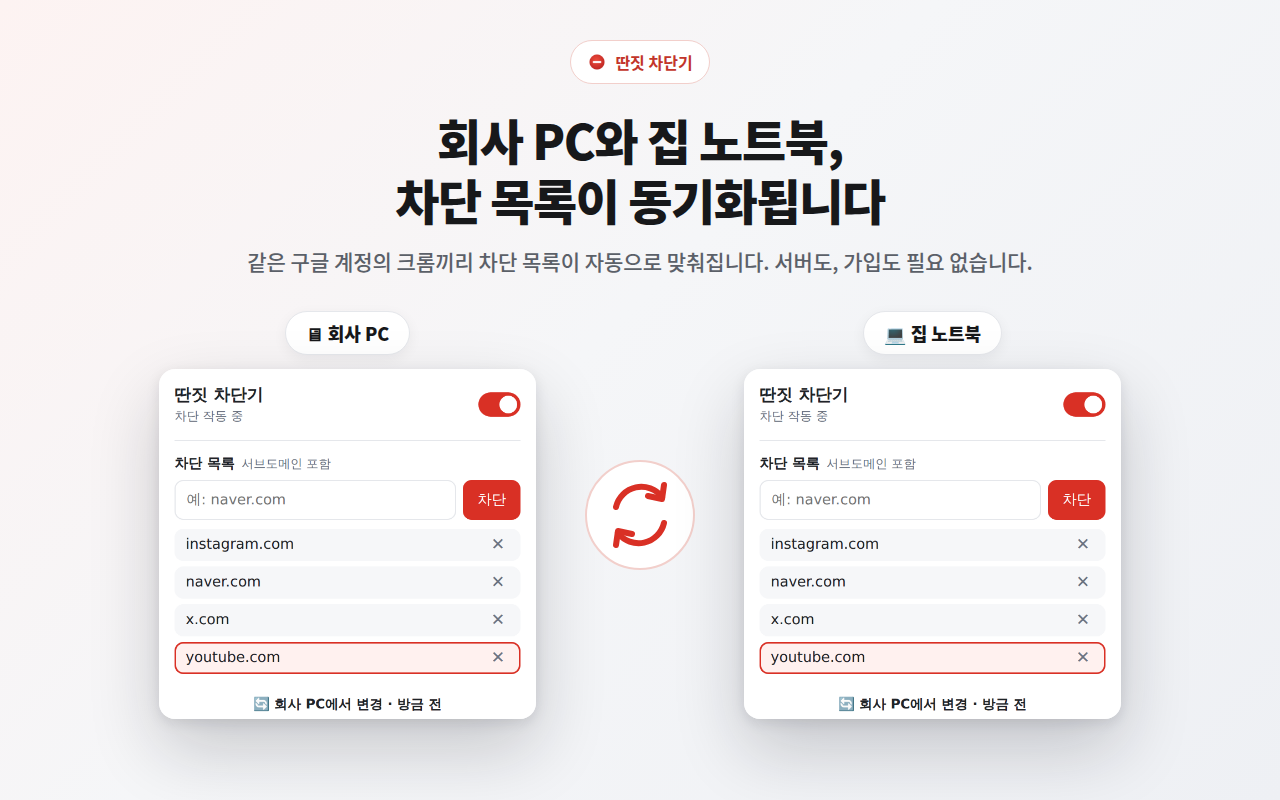
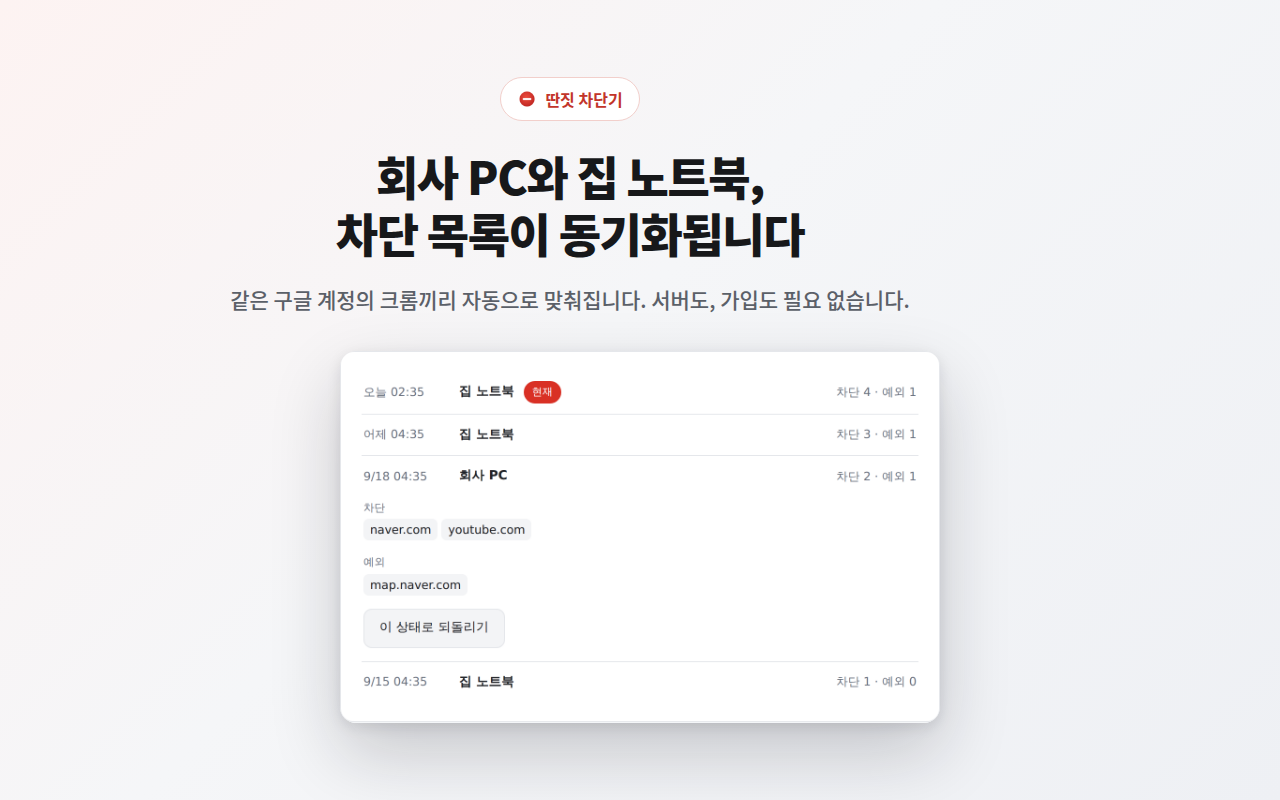
v2.0.3 - 동기화 기록·되돌리기, 단어 문제 잠금, 스토어 이미지

diff --git a/docs/index.html b/docs/index.html
@@ -67,6 +67,13 @@
 
   footer{margin-top:52px;padding-top:22px;border-top:1px solid var(--line);
          color:var(--muted);font-size:13.5px}
+  ul.no{list-style:none;padding-left:0}
+  ul.no li{position:relative;padding-left:30px}
+  ul.no li::before{content:"✕";position:absolute;left:4px;top:0;color:var(--muted);font-weight:700}
+  .tag{display:inline-block;font-size:12px;font-weight:700;vertical-align:3px;margin-left:8px;
+       padding:2px 9px;border-radius:999px;color:var(--ok);background:var(--okbg);
+       border:1px solid color-mix(in srgb, var(--ok) 35%, transparent)}
+  h3{font-size:16px;margin:26px 0 8px;font-weight:800}
   [hidden]{display:none!important}
 </style>
 </head>
@@ -79,7 +86,7 @@
   </header>
 
   <h1 id="title">개인정보처리방침</h1>
-  <div class="meta" id="meta">최종 수정일 · 시행일: 2026년 9월 11일</div>
+  <div class="meta" id="meta">최종 수정일 · 시행일: 2026년 9월 21일</div>
 
   <div class="lang" role="tablist">
     <button id="btnKo" role="tab" aria-selected="true">한국어</button>
@@ -88,51 +95,59 @@
 
   <!-- ===================== 한국어 ===================== -->
   <section id="ko">
-
     <div class="tldr">
       <strong>한눈에 보기</strong>
-      <p>딴짓 차단기는 <b>어떤 개인정보도 수집하지 않습니다.</b> 외부 서버로 데이터를
-      전송하지 않으며, 사용자가 설정한 내용은 모두 사용자의 브라우저 안에만 저장됩니다.</p>
+      <p>딴짓 차단기는 <b>어떤 개인정보도 수집하지 않습니다.</b> 개발자가 운영하는 서버가 없고,
+      개발자에게 전송되는 데이터도 없습니다. 사용자가 정한 설정은 사용자의 브라우저 안에,
+      크롬 동기화를 켰다면 <b>사용자 본인의 구글 계정</b> 안에만 보관됩니다.</p>
     </div>
 
     <h2>1. 수집하지 않는 정보</h2>
-    <p>이 확장 프로그램은 다음을 포함한 어떤 정보도 수집·저장·전송하지 않습니다.</p>
-    <ul>
-      <li>이름, 이메일, 계정 정보 등 개인 식별 정보</li>
-      <li>방문 기록, 검색 기록, 열람한 페이지의 내용</li>
-      <li>IP 주소, 기기 식별자, 위치 정보</li>
-      <li>사용 통계, 분석 데이터, 오류 보고</li>
-      <li>쿠키, 로그인 정보, 입력한 양식의 내용</li>
+    <p>이 확장 프로그램은 아래 정보를 <b>하나도 수집·저장·전송하지 않습니다.</b></p>
+    <ul class="no">
+      <li><b>이름, 이메일, 계정 정보</b> 등 개인 식별 정보를 <b>수집하지 않습니다.</b></li>
+      <li><b>방문 기록, 검색 기록, 열람한 페이지의 내용</b>을 <b>수집하지 않습니다.</b></li>
+      <li><b>IP 주소, 위치 정보, 하드웨어 기기 식별자</b>(광고 ID·MAC 주소 등)를 <b>수집하지 않습니다.</b></li>
+      <li><b>사용 통계, 분석 데이터, 오류 보고</b>를 <b>수집하지 않습니다.</b></li>
+      <li><b>쿠키, 로그인 정보, 비밀번호, 입력한 양식의 내용</b>을 <b>수집하지 않습니다.</b></li>
     </ul>
-    <p>분석 도구나 광고 SDK를 일절 포함하지 않으며, 외부 서버와 통신하는 코드가
-    존재하지 않습니다.</p>
+    <p>분석 도구나 광고 SDK를 일절 포함하지 않으며, 외부 서버와 통신하는 코드가 존재하지 않습니다.</p>
 
-    <h2>2. 기기에 저장되는 정보</h2>
-    <p>기능 동작을 위해 아래 항목이 <b>사용자의 브라우저에</b> 저장됩니다.
-    크롬의 <code>chrome.storage.local</code> 과 <code>chrome.storage.sync</code> 영역을 사용하며,
-    이 데이터는 <b>개발자에게 전송되지 않습니다.</b></p>
+    <h2>2. 사용자의 브라우저에만 보관되는 설정 <span class="tag">수집 아님</span></h2>
+    <p>아래 항목은 <b>개발자가 수집하는 정보가 아닙니다.</b> 확장 프로그램이 동작하려고
+    사용자의 브라우저 안(크롬의 <code>chrome.storage</code>)에 보관하는 설정이며,
+    <b>개발자에게 전송되지 않습니다.</b></p>
     <div class="scroll">
     <table class="tbl">
-      <tr><th>저장 항목</th><th>내용</th></tr>
-      <tr><td>차단 목록</td><td>사용자가 직접 입력한 도메인 목록</td></tr>
-      <tr><td>예외 목록</td><td>차단 대상에서 제외할 도메인 목록</td></tr>
-      <tr><td>차단 페이지 설정</td><td>차단 시 표시할 문구와 이모지</td></tr>
-      <tr><td>잠금 문제 단어</td><td>잠금을 풀 때 나오는 단어와 뜻 (사용자가 바꿀 수 있음)</td></tr>
-      <tr><td>동기화 기록</td><td>최근 10회의 차단·예외 목록과 그 시각, 사용자가 붙인 기기 이름</td></tr>
-      <tr><td>차단 사용 여부 · 잠금 여부</td><td>기능 켜짐/꺼짐 상태 (기기마다 따로)</td></tr>
+      <tr><th>보관 항목</th><th>내용</th><th>다른 기기와 동기화</th></tr>
+      <tr><td>차단 목록 · 예외 목록</td><td>사용자가 직접 입력한 도메인</td><td>예</td></tr>
+      <tr><td>차단 화면 문구</td><td>차단 화면에 표시할 기호와 짧은 문구</td><td>예</td></tr>
+      <tr><td>잠금 문제 단어</td><td>잠금을 풀 때 나오는 단어·발음·뜻 (사용자가 바꿀 수 있음)</td><td>예</td></tr>
+      <tr><td>동기화 기록</td><td>최근 10회의 차단·예외 목록, 바뀐 시각, 바꾼 기기의 이름</td><td>예</td></tr>
+      <tr><td>기기 이름 · 기기 구분 번호</td><td>사용자가 붙인 기기 이름("회사 PC" 등)과,
+        내 기기끼리 구분하려고 확장 프로그램이 임의로 만든 짧은 번호.
+        하드웨어 정보와는 무관합니다.</td><td>기록 안에서만</td></tr>
+      <tr><td>차단 켜짐 · 잠금 켜짐</td><td>기능 켜짐/꺼짐 상태</td><td>아니요 (기기마다 따로)</td></tr>
+      <tr><td>잠금 해제 시각</td><td>문제를 맞힌 뒤 5분 동안 열어 두기 위한 시각.
+        브라우저를 닫으면 사라집니다.</td><td>아니요</td></tr>
     </table>
     </div>
     <p>이 확장 프로그램은 <b>비밀번호를 사용하지 않습니다.</b> 잠금은 단어 문제로만 이루어지며,
     계정·이메일·비밀번호를 묻거나 저장하지 않습니다.</p>
 
-    <h3 style="font-size:1rem;margin-top:1.4rem">크롬 동기화에 대하여</h3>
-    <p>사용자가 크롬 동기화를 켜 두었다면, 위 항목 중 <b>차단 목록 · 예외 목록 · 차단 페이지 설정 ·
-    잠금 문제 단어 · 동기화 기록</b>이 <code>chrome.storage.sync</code> 를 통해
-    <b>사용자 본인의 구글 계정</b>에 저장되어 같은 계정으로 로그인한 사용자 본인의 다른 크롬으로 전달됩니다.
-    이 전달은 구글이 제공하는 크롬 동기화 기능으로 이루어지며,
-    개발자는 이 데이터에 접근할 수 없고 중간에 어떤 서버도 두지 않습니다.
+    <h3>크롬 동기화에 대하여</h3>
+    <p>사용자가 크롬 동기화를 켜 두었다면, 위 표에서 "예"로 표시된 항목이
+    <code>chrome.storage.sync</code> 를 통해 <b>사용자 본인의 구글 계정</b>에 보관되어
+    같은 계정으로 로그인한 <b>사용자 본인의 다른 크롬</b>으로만 전달됩니다.
+    이 전달은 구글이 제공하는 크롬 동기화 기능이 처리하며,
+    <b>개발자는 이 데이터에 접근할 수 없고 중간에 어떤 서버도 두지 않습니다.</b>
     크롬 설정에서 동기화를 끄면 데이터는 그 기기 안에만 남습니다.
     (구글의 처리 방식은 <a href="https://policies.google.com/privacy">구글 개인정보처리방침</a>을 따릅니다.)</p>
+
+    <h3>엑셀 백업 파일에 대하여</h3>
+    <p>사용자가 직접 <b>엑셀로 내보내기</b>를 누른 경우에만, 차단·예외 목록, 차단 화면 문구,
+    잠금 문제 단어가 담긴 파일이 <b>사용자의 컴퓨터에 저장</b>됩니다.
+    이 파일은 어디로도 전송되지 않으며, 보관과 삭제는 사용자가 정합니다.</p>
 
     <h2>3. 요청하는 권한과 사용 목적</h2>
     <div class="scroll">
@@ -140,7 +155,7 @@
       <tr><th>권한</th><th>사용 목적</th></tr>
       <tr>
         <td><code>storage</code></td>
-        <td>위 2항의 설정을 기기에 저장하기 위해 사용합니다.</td>
+        <td>위 2항의 설정을 브라우저에 보관하고, 크롬 동기화를 켠 경우 사용자의 다른 크롬과 맞추기 위해 사용합니다.</td>
       </tr>
       <tr>
         <td><code>declarativeNetRequestWithHostAccess</code></td>
@@ -151,19 +166,21 @@
         <td>사이트 접근 권한<br>(선택적)</td>
         <td>사용자가 차단 목록에 <b>직접 추가한 사이트에 대해서만</b> 그때그때
         요청합니다. 설치 시점에 모든 사이트에 대한 권한을 요구하지 않으며,
-        이 권한은 해당 사이트로의 이동을 차단 페이지로 돌리는 데에만 쓰입니다.</td>
+        이 권한은 해당 사이트로의 이동을 차단 화면으로 돌리는 데에만 쓰입니다.</td>
       </tr>
     </table>
     </div>
 
     <h2>4. 제3자 제공 및 외부 전송</h2>
-    <p>수집하는 정보가 없으므로 제3자에게 제공하거나 판매하는 정보도 없습니다.
-    이 확장 프로그램은 어떤 외부 서버와도 통신하지 않습니다.</p>
+    <p>개발자가 수집하는 정보가 없으므로 제3자에게 제공하거나 판매하는 정보도 없습니다.
+    이 확장 프로그램은 어떤 외부 서버와도 통신하지 않습니다.
+    크롬 동기화를 켠 경우의 기기 간 전달은 사용자 본인의 구글 계정 안에서만 이루어집니다.</p>
 
     <h2>5. 데이터 삭제</h2>
-    <p>저장된 모든 데이터는 사용자의 브라우저 안에만 존재합니다.
-    <code>chrome://extensions</code> 에서 이 확장 프로그램을 삭제하면
-    저장된 설정도 함께 완전히 지워집니다. 별도의 삭제 요청 절차가 필요 없습니다.</p>
+    <p><code>chrome://extensions</code> 에서 이 확장 프로그램을 삭제하면 그 브라우저에 보관된 설정이 함께 지워집니다.
+    크롬 동기화로 구글 계정에 보관된 사본은 모든 기기에서 확장 프로그램을 삭제하거나,
+    <a href="https://chrome.google.com/sync">크롬 동기화 데이터 관리</a> 페이지에서 동기화를 초기화해 지울 수 있습니다.
+    개발자는 이 데이터를 갖고 있지 않으므로 별도의 삭제 요청 절차가 필요 없습니다.</p>
 
     <h2>6. 아동의 개인정보</h2>
     <p>이 확장 프로그램은 연령과 무관하게 어떤 개인정보도 수집하지 않습니다.</p>
@@ -180,51 +197,57 @@
 
   <!-- ===================== English ===================== -->
   <section id="en" hidden>
-
     <div class="tldr">
       <strong>In short</strong>
-      <p>Ddanjit Blocker <b>collects no personal data whatsoever.</b> Nothing is
-      transmitted to any server. Everything you configure stays inside your own browser.</p>
+      <p>Ddanjit Blocker <b>collects no personal data whatsoever.</b> There is no developer
+      server and nothing is sent to the developer. Your settings stay in your own browser —
+      and, if you turn on Chrome Sync, in <b>your own Google account</b>.</p>
     </div>
 
     <h2>1. Information we do not collect</h2>
-    <p>This extension does not collect, store, or transmit any of the following:</p>
-    <ul>
-      <li>Personally identifiable information such as names, emails, or account details</li>
-      <li>Browsing history, search history, or the content of pages you view</li>
-      <li>IP addresses, device identifiers, or location data</li>
-      <li>Usage analytics, telemetry, or crash reports</li>
-      <li>Cookies, credentials, or form input</li>
+    <p>This extension <b>does not collect, store, or transmit any</b> of the following:</p>
+    <ul class="no">
+      <li><b>Names, email addresses, or account details</b> — <b>not collected.</b></li>
+      <li><b>Browsing history, search history, or the content of pages you view</b> — <b>not collected.</b></li>
+      <li><b>IP addresses, location, or hardware device identifiers</b> (advertising ID, MAC address, etc.) — <b>not collected.</b></li>
+      <li><b>Usage analytics, telemetry, or crash reports</b> — <b>not collected.</b></li>
+      <li><b>Cookies, credentials, passwords, or form input</b> — <b>not collected.</b></li>
     </ul>
     <p>The extension contains no analytics or advertising SDKs, and no code that
     communicates with any external server.</p>
 
-    <h2>2. Data stored on your device</h2>
-    <p>The following is stored <b>in your browser</b> via Chrome's
-    <code>chrome.storage.local</code> and <code>chrome.storage.sync</code>.
-    It is <b>never sent to the developer.</b></p>
+    <h2>2. Settings kept only in your browser <span class="tag">not collected</span></h2>
+    <p>The items below are <b>not information collected by the developer.</b> They are settings
+    the extension keeps inside your browser (Chrome's <code>chrome.storage</code>) so that it can work,
+    and they are <b>never sent to the developer.</b></p>
     <div class="scroll">
     <table class="tbl">
-      <tr><th>Item</th><th>Description</th></tr>
-      <tr><td>Block list</td><td>Domains you entered yourself</td></tr>
-      <tr><td>Exception list</td><td>Domains excluded from blocking</td></tr>
-      <tr><td>Block page settings</td><td>Your custom message and emoji</td></tr>
-      <tr><td>Unlock words</td><td>The words and meanings used by the unlock question (editable by you)</td></tr>
-      <tr><td>Sync history</td><td>The last 10 versions of your lists with timestamps and the device names you chose</td></tr>
-      <tr><td>Enabled / lock state</td><td>Whether blocking and the lock are on (per device)</td></tr>
+      <tr><th>Item</th><th>Description</th><th>Synced to your other devices</th></tr>
+      <tr><td>Block list · exception list</td><td>Domains you entered yourself</td><td>Yes</td></tr>
+      <tr><td>Block page text</td><td>The symbol and short message shown on the block page</td><td>Yes</td></tr>
+      <tr><td>Unlock words</td><td>Words, pronunciations and meanings used by the unlock question (editable by you)</td><td>Yes</td></tr>
+      <tr><td>Sync history</td><td>The last 10 versions of your lists, when they changed, and the name of the device that changed them</td><td>Yes</td></tr>
+      <tr><td>Device name · device tag</td><td>The name you give a device ("Work PC") and a short random tag the
+        extension creates to tell your own devices apart. It has nothing to do with hardware.</td><td>Only inside the history</td></tr>
+      <tr><td>Blocking on · lock on</td><td>Whether each feature is turned on</td><td>No (per device)</td></tr>
+      <tr><td>Unlock time</td><td>Keeps settings open for 5 minutes after a correct answer.
+        Cleared when the browser closes.</td><td>No</td></tr>
     </table>
     </div>
     <p>This extension <b>does not use passwords.</b> The lock is a word question only.
     It never asks for or stores an account, email address or password.</p>
 
-    <h3 style="font-size:1rem;margin-top:1.4rem">About Chrome Sync</h3>
-    <p>If you have Chrome Sync enabled, your <b>block list, exception list, block page settings,
-    unlock words and sync history</b> are stored via <code>chrome.storage.sync</code> in
-    <b>your own Google account</b> and delivered to your other Chrome browsers signed in to that
-    same account. This transfer is performed by Google's Chrome Sync feature. The developer cannot
-    access this data and operates no server in between. Turning Chrome Sync off keeps the data on
-    that device only. (Google's handling is governed by the
+    <h3>About Chrome Sync</h3>
+    <p>If you have Chrome Sync enabled, the items marked "Yes" above are kept via
+    <code>chrome.storage.sync</code> in <b>your own Google account</b> and delivered only to
+    <b>your own other Chrome browsers</b> signed in to that account. This is handled by Google's
+    Chrome Sync feature; <b>the developer cannot access this data and operates no server in between.</b>
+    Turning Chrome Sync off keeps the data on that device only. (Google's handling is governed by the
     <a href="https://policies.google.com/privacy">Google Privacy Policy</a>.)</p>
+
+    <h3>About the Excel backup file</h3>
+    <p>Only when you click <b>Export to Excel</b>, a file containing your lists, block page text and
+    unlock words is <b>saved on your computer.</b> It is never sent anywhere; you decide whether to keep or delete it.</p>
 
     <h2>3. Permissions and why they are needed</h2>
     <div class="scroll">
@@ -232,7 +255,7 @@
       <tr><th>Permission</th><th>Purpose</th></tr>
       <tr>
         <td><code>storage</code></td>
-        <td>To save the settings listed in section 2 on your device.</td>
+        <td>To keep the settings in section 2 in your browser and, if Chrome Sync is on, keep them in step with your other Chrome browsers.</td>
       </tr>
       <tr>
         <td><code>declarativeNetRequestWithHostAccess</code></td>
@@ -249,12 +272,15 @@
     </div>
 
     <h2>4. Third parties</h2>
-    <p>Since no data is collected, none is shared or sold. The extension does not
-    communicate with any external server.</p>
+    <p>Since the developer collects no data, none is shared or sold. The extension does not
+    communicate with any external server. Transfer between devices, if you turn on Chrome Sync,
+    happens only within your own Google account.</p>
 
     <h2>5. Deleting your data</h2>
-    <p>All stored data lives only in your browser. Removing the extension from
-    <code>chrome://extensions</code> deletes it completely. No deletion request is needed.</p>
+    <p>Removing the extension from <code>chrome://extensions</code> deletes the settings kept in that browser.
+    The copy kept in your Google account by Chrome Sync is removed when you remove the extension from all
+    your devices, or by resetting sync on the <a href="https://chrome.google.com/sync">Chrome Sync data</a> page.
+    The developer holds none of this data, so no deletion request is needed.</p>
 
     <h2>6. Children's privacy</h2>
     <p>This extension collects no personal data from users of any age.</p>
@@ -298,8 +324,8 @@
     bEn.setAttribute('aria-selected', !isKo);
     document.documentElement.lang = isKo ? 'ko' : 'en';
     title.textContent = isKo ? '개인정보처리방침' : 'Privacy Policy';
-    meta.textContent  = isKo ? '최종 수정일 · 시행일: 2026년 9월 11일'
-                             : 'Last updated · Effective: September 11, 2026';
+    meta.textContent  = isKo ? '최종 수정일 · 시행일: 2026년 9월 21일'
+                             : 'Last updated · Effective: September 21, 2026';
     foot.textContent  = isKo ? '딴짓 차단기 — 크롬 확장 프로그램 · 개인정보처리방침'
                              : 'Ddanjit Blocker — Chrome Extension · Privacy Policy';
     document.title = (isKo ? '딴짓 차단기 — 개인정보처리방침'

diff --git a/store-assets/배포-체크리스트.md b/store-assets/배포-체크리스트.md
@@ -37,7 +37,7 @@ git push
 | 홈페이지 URL | `https://github.com/Wook8888/ddanjit-blocker` |
 | 지원 URL | `https://github.com/Wook8888/ddanjit-blocker/issues` |
 
-스크린샷 순서: 1 기기 간 동기화 → 2 차단 목록 → 3 차단 화면 → 4 예외 목록 → 5 단어 문제 잠금
+스크린샷 순서: 1 기기 간 동기화(기록 화면) → 2 차단 목록 → 3 차단 화면 → 4 예외 목록 → 5 단어 문제 잠금
 
 ## 3. 개인정보 보호 탭
 

diff --git a/store-assets/listing.md b/store-assets/listing.md
@@ -42,8 +42,6 @@
 
 같은 구글 계정으로 로그인한 크롬끼리 차단 목록이 자동으로 맞춰집니다.
 한 곳에서 고치면 다른 기기에도 곧바로 반영됩니다. 서버도, 가입도 필요 없습니다.
-언제 어느 기기가 목록을 바꿨는지 최근 10개가 남고,
-원하지 않는 변경은 그때 상태로 되돌릴 수 있습니다.
 
 ■ 차단할 사이트를 적기만 하면 됩니다
 
